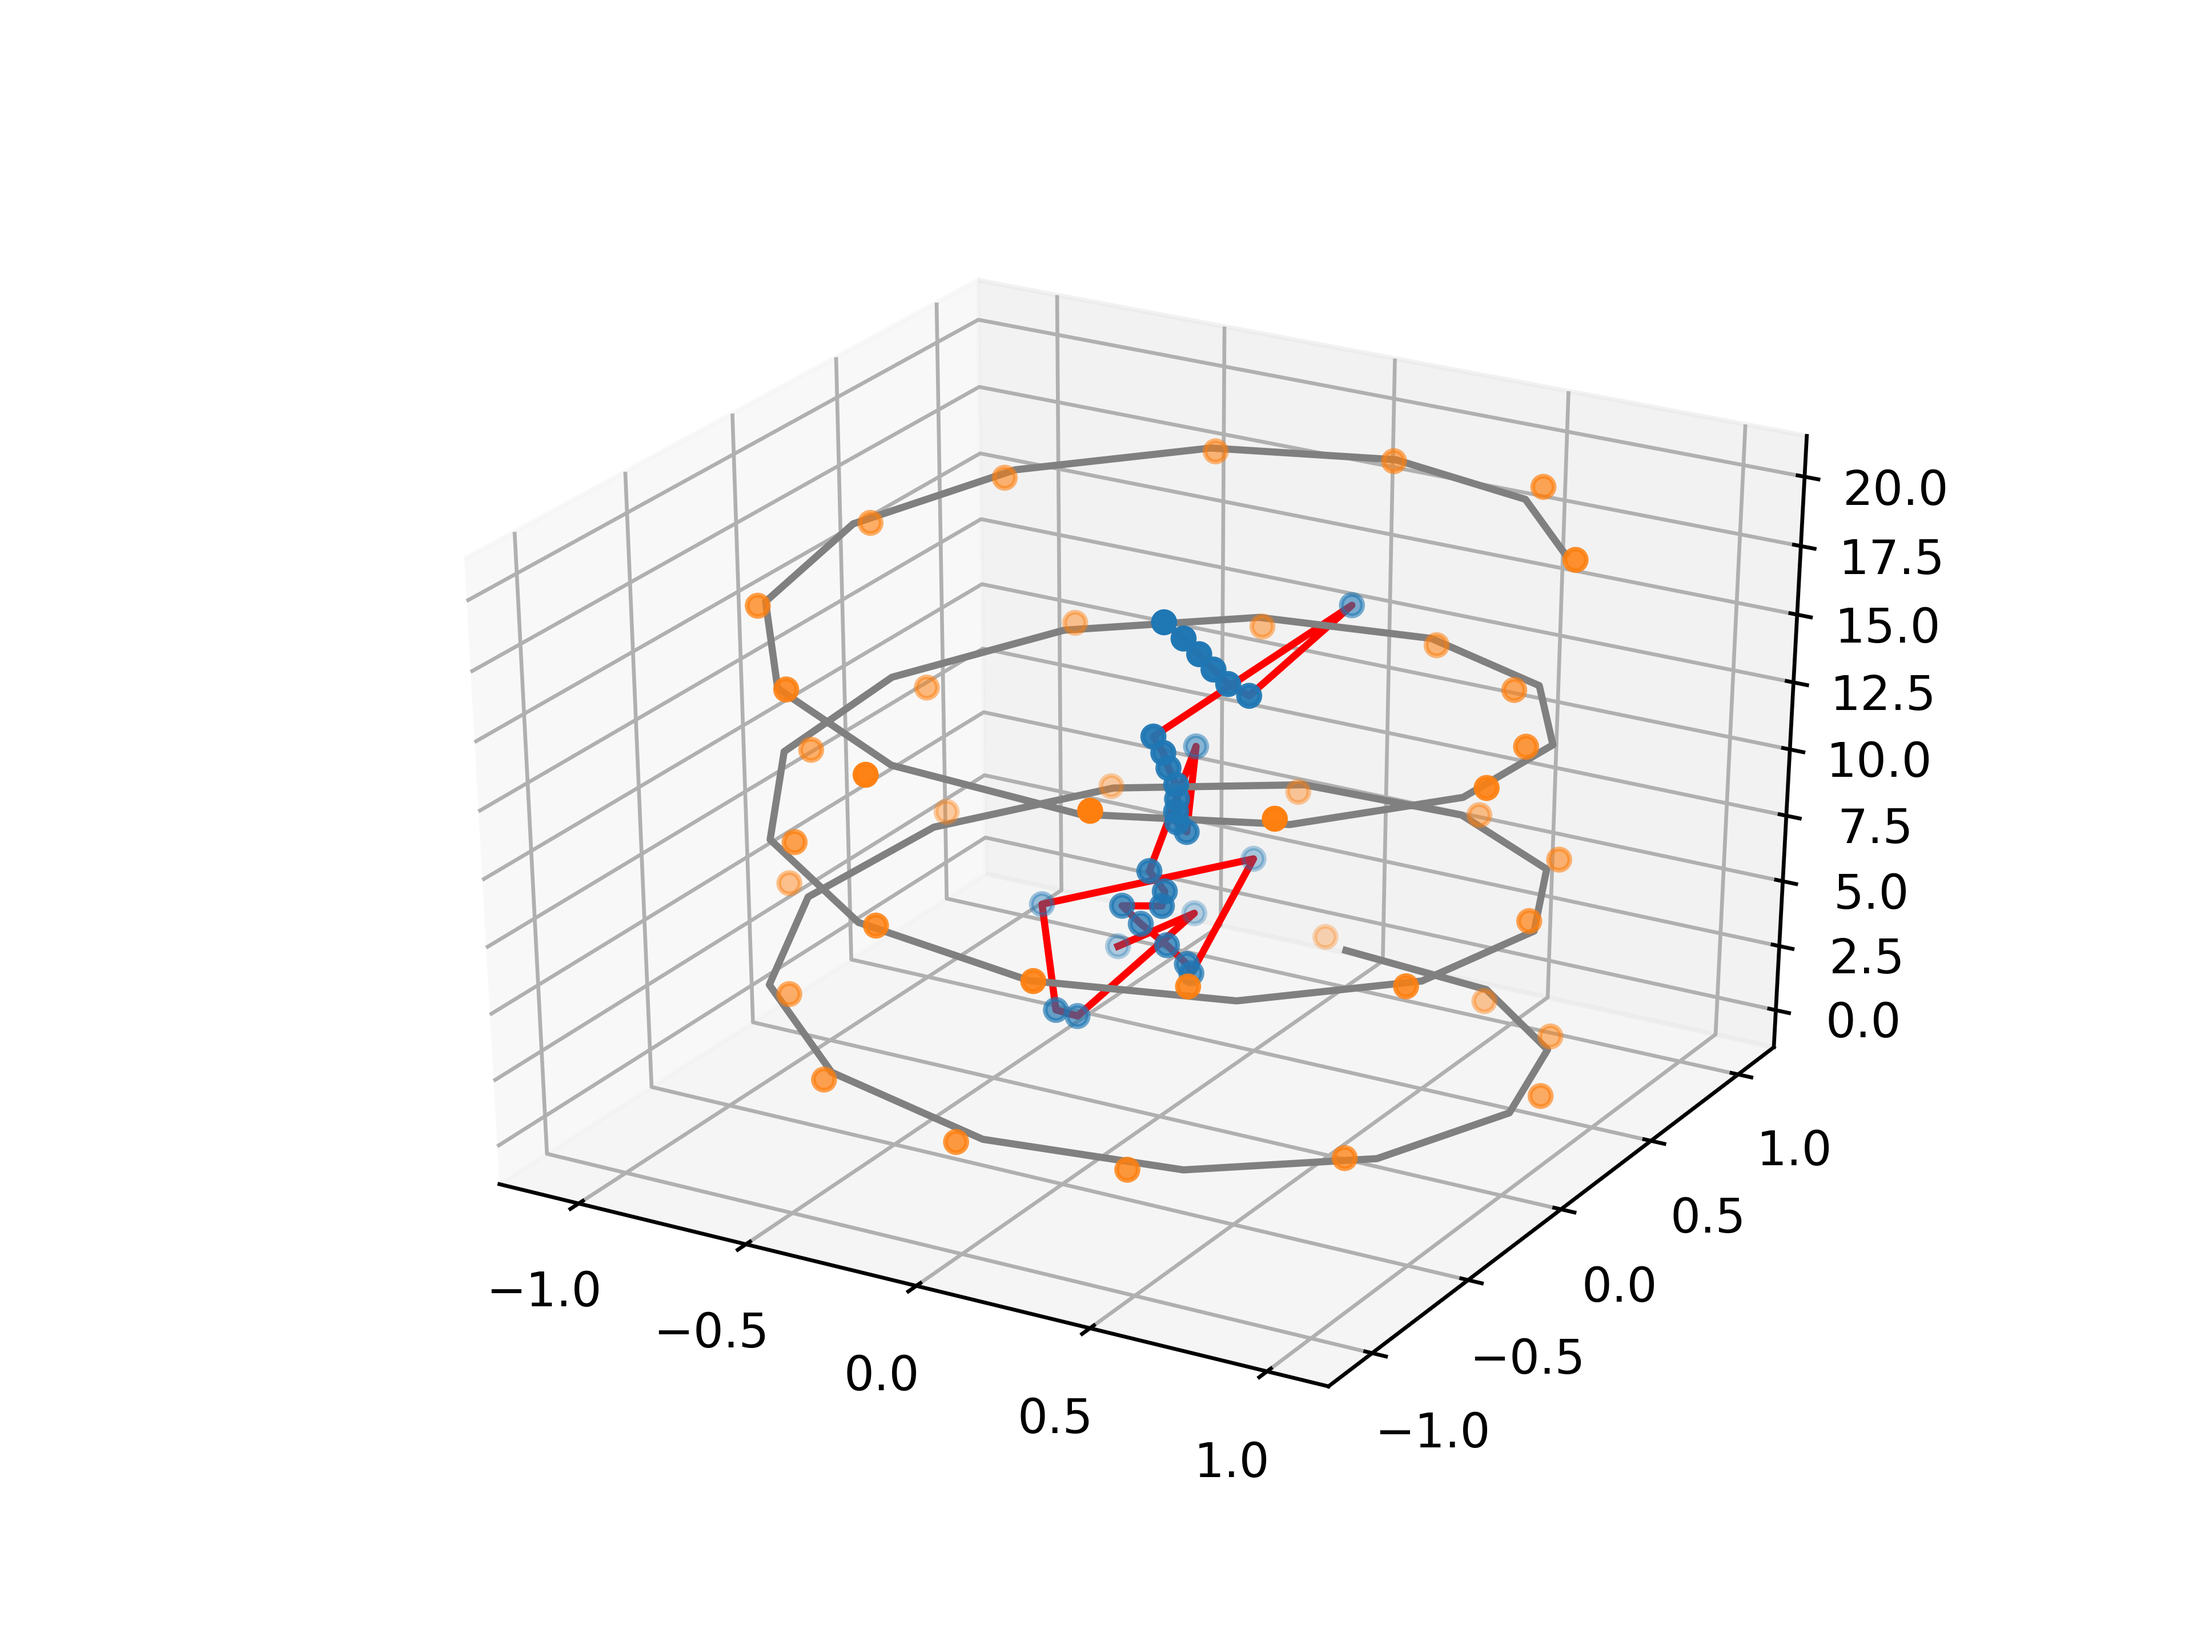
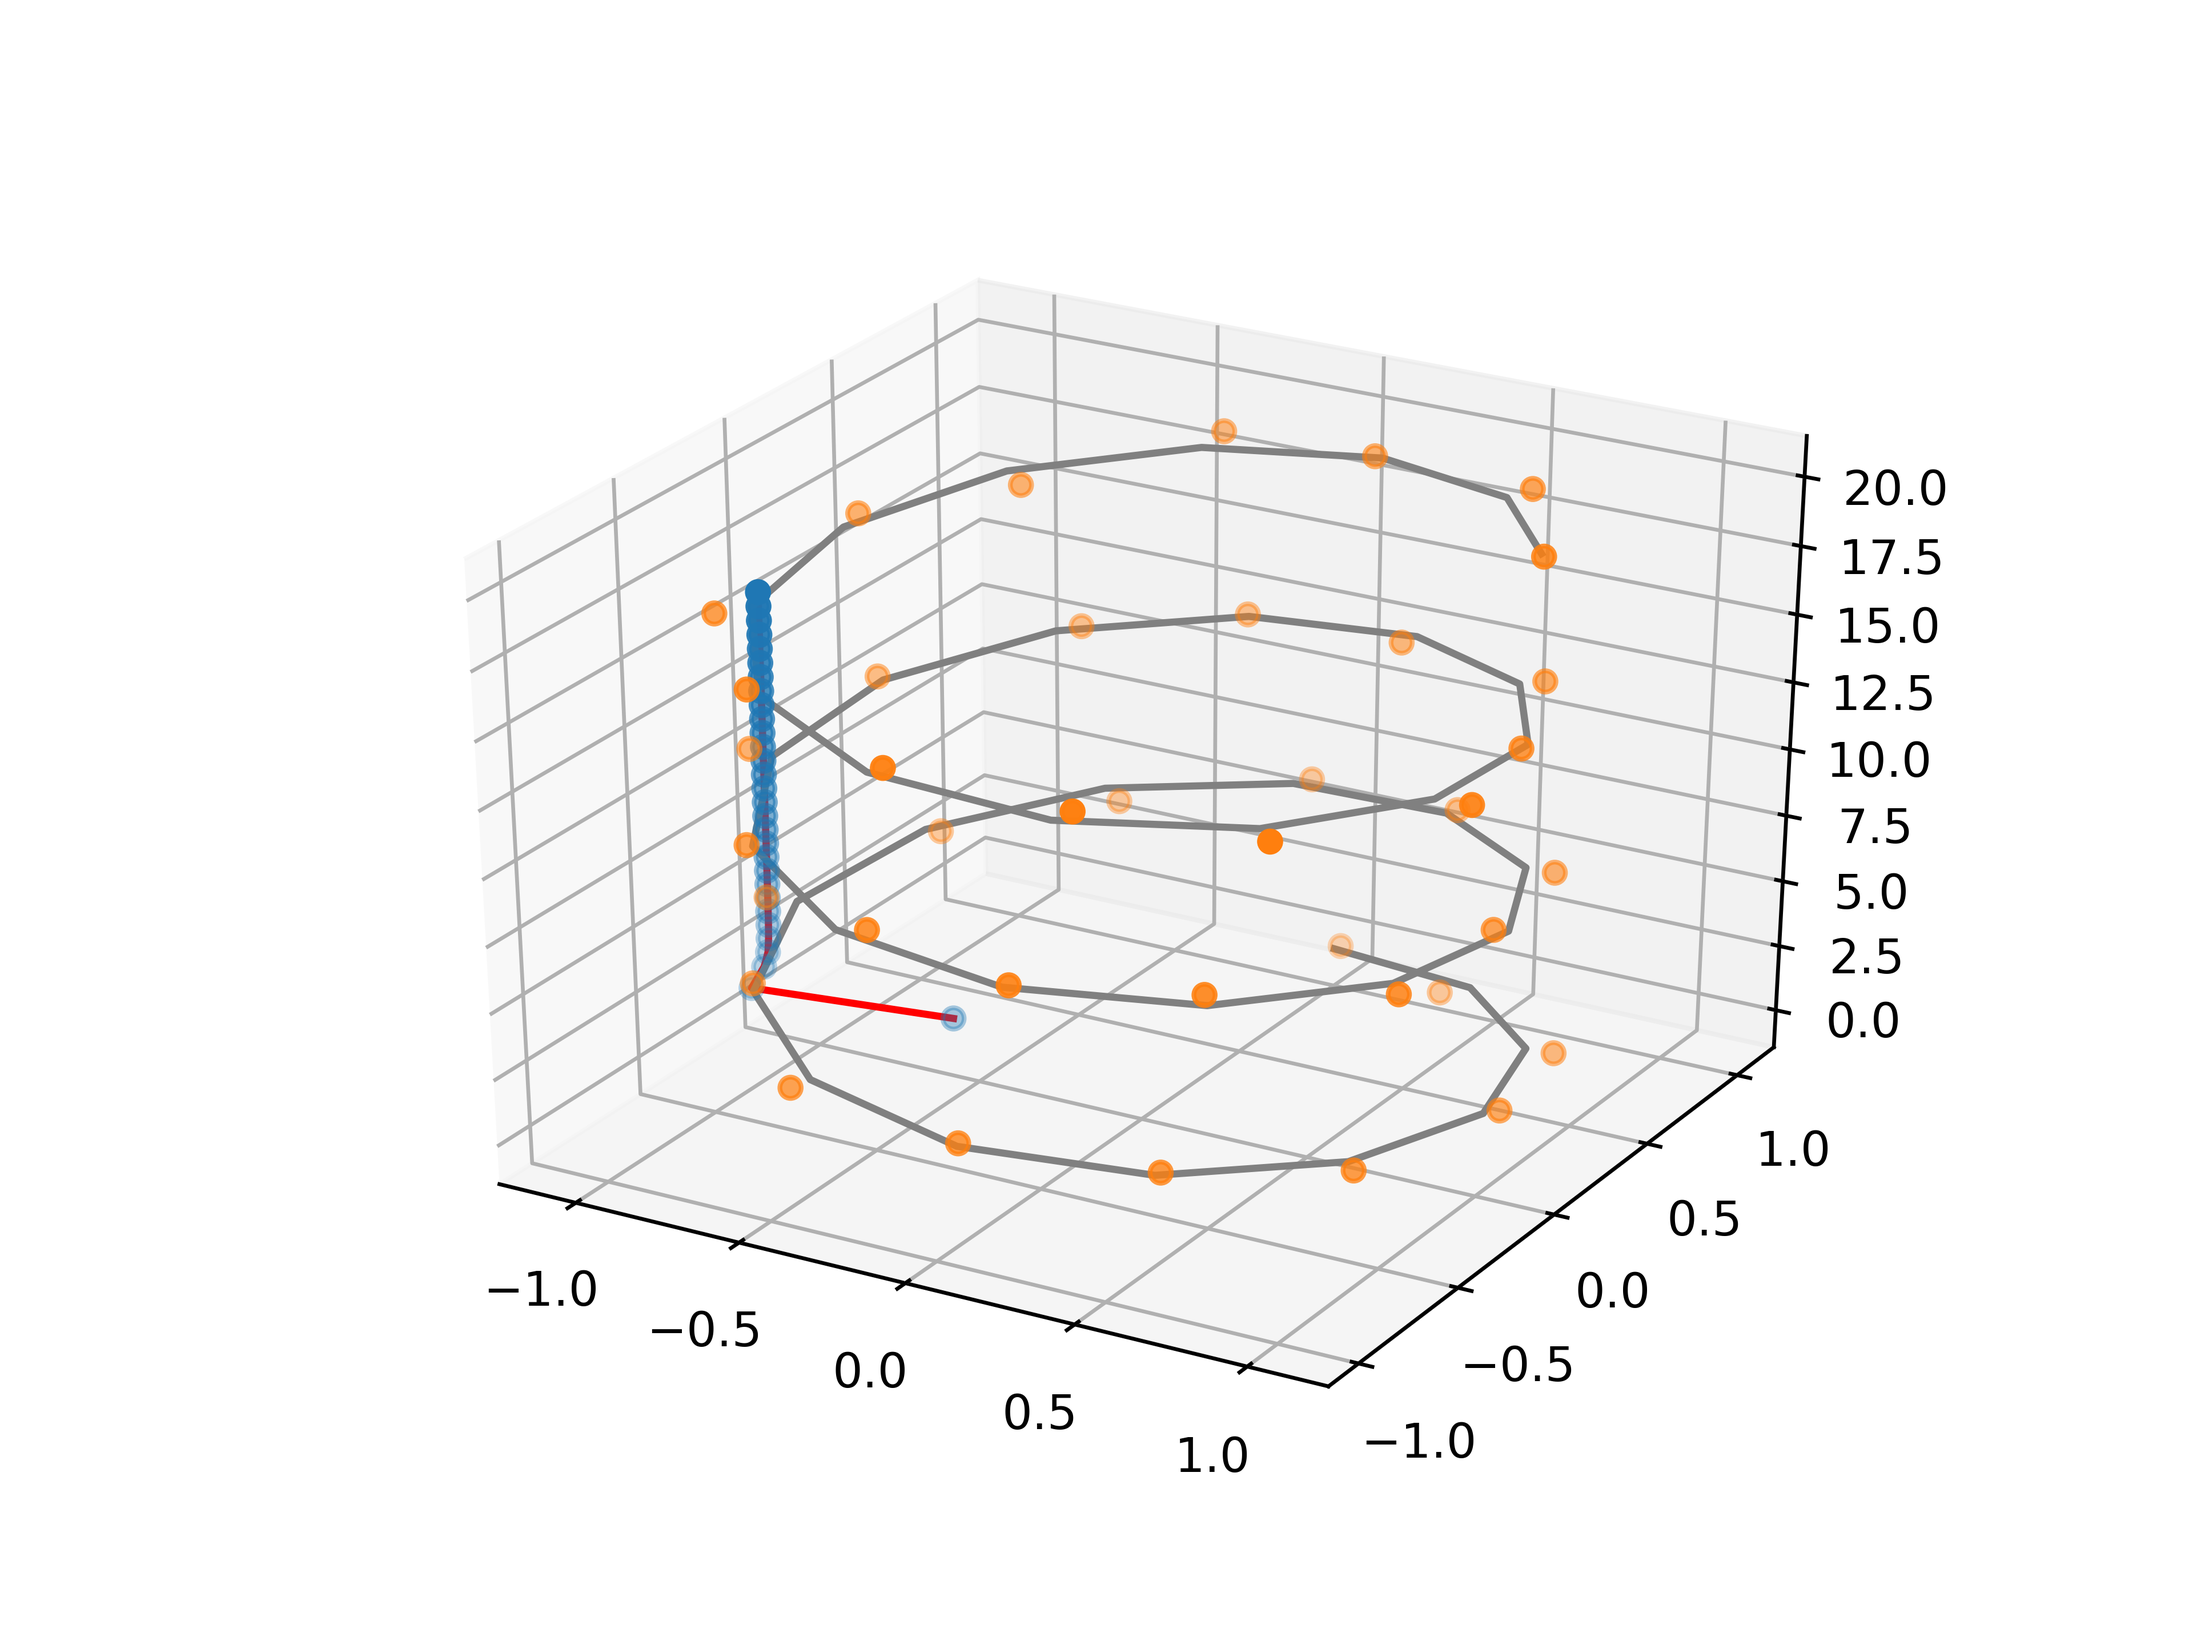
Sequence Bug Fix 1

diff --git a/networks/ode_rnn.py b/networks/ode_rnn.py
@@ -54,28 +54,38 @@ class ODE_RNN(nn.Module):
     def forward(self, t, x, method="dopri5", step_size=20):
         
         t = t.reshape(-1).float()
-        # Size is train_window
-        num_predict = t.shape[0]
-        # num_predict = 1
+        N = t.shape[0]
 
         # Model current output hidden state dynamics
         h_i = torch.zeros(self.hidden_layer_size, 1)
         h_ip = torch.zeros(self.hidden_layer_size, 1)
-        output = torch.zeros(num_predict, self.output_size)
+        output = torch.zeros(N, self.output_size)
 
-        # Predict sequence of length num_predict from inputs x and t
-        for j in range(num_predict):
+        # Initial layer (h0)
+        if t[0] > 0:
+            h_ip = odeint(self.ode_func, h_i, torch.tensor([0.0, t[0]]))[1]
 
-            # RNN iteration
-            for i, x_i in enumerate(x):
-                if i > 0:
-                    h_ip = odeint(self.ode_func, h_i, t[i-1 : i+1])[1]
-                    # h_i = self.nonlinear(self.linear_in(x_i) + self.linear_hidden(h_ip))
-                    h_i = self.rnn_cell(x_i.transpose(0, 1), h_ip.transpose(0, 1))
-                    h_i = torch.transpose(h_i, 0, 1)
+            out = self.linear_hidden(h_ip)
+            out = self.decoder(out)
+            out = self.nonlinear(out)
+            output[0] = out.reshape(-1)
 
-            out_j = self.decoder(h_i)
-            output[j] = out_j.reshape(-1)
+            h_i = self.rnn_cell(x[0].transpose(0, 1))
+            h_i = torch.transpose(h_i, 0, 1)
+
+        # RNN iteration
+        for i in range(1, N):
+
+            x_i = x[i]
+            h_ip = odeint(self.ode_func, h_i, t[i-1 : i+1])[1]
+
+            out = self.linear_hidden(h_ip)
+            out = self.decoder(out)
+            out = self.nonlinear(out)
+            output[i] = out.reshape(-1)
+
+            h_i = self.rnn_cell(x_i.transpose(0, 1), h_ip.transpose(0, 1))
+            h_i = torch.transpose(h_i, 0, 1)
 
         return output
 

diff --git a/utils/spiral_generator.py b/utils/spiral_generator.py
@@ -28,7 +28,7 @@ class Epoch_Spiral_Generator():
         self.true_x = torch.sin(self.true_z).float()
         self.true_y = torch.cos(self.true_z).float()
 
-        self.data = [((self.y[:, i:i+train_window].reshape(-1, dimension, 1), self.x[:, i:i+train_window].reshape(-1, 1, 1)), (self.y[:, i+train_window:i+train_window+10].reshape(dimension, -1))) for i in range(self.y.size(1) - train_window)]
+        self.data = [((self.y[:, i:i+train_window].reshape(-1, dimension, 1), self.x[:, i:i+train_window].reshape(-1, 1, 1)), (self.y[:, i+train_window:i+train_window+5].reshape(dimension, -1))) for i in range(self.y.size(1) - train_window)]
         
         self.train_data = self.data[:cutoff]
         self.test_start = self.data[0]

diff --git a/fig6.py b/fig6.py
@@ -57,7 +57,7 @@ device_params = {"Vdd": 0.2,
 # plt.savefig('./output/ground_truth.png', dpi=600, transparent=True)
 
 # 40, 10, 20, 10, 2
-data_gen = Epoch_Spiral_Generator(150, 50, 20, 10, 2)
+data_gen = Epoch_Spiral_Generator(40, 20, 20, 5, 2)
 
 # Build and train models
 
